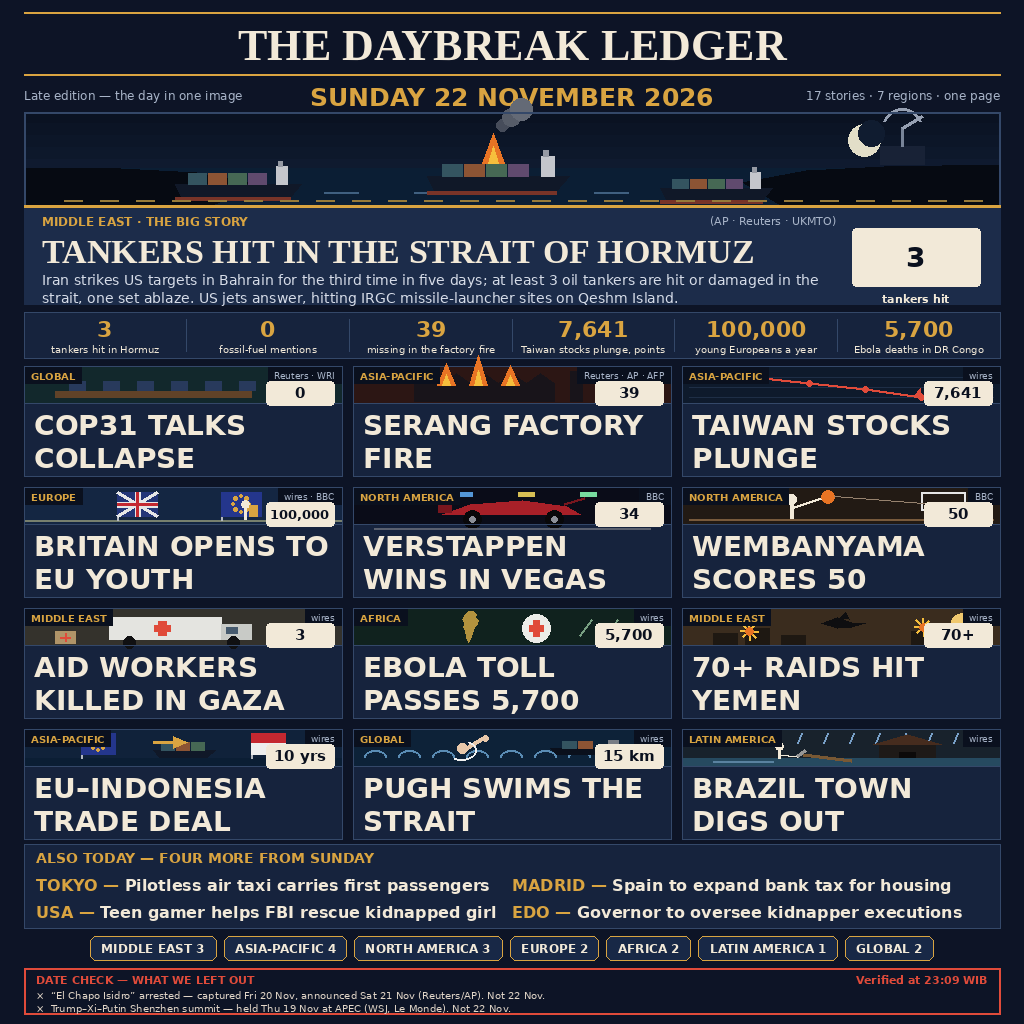
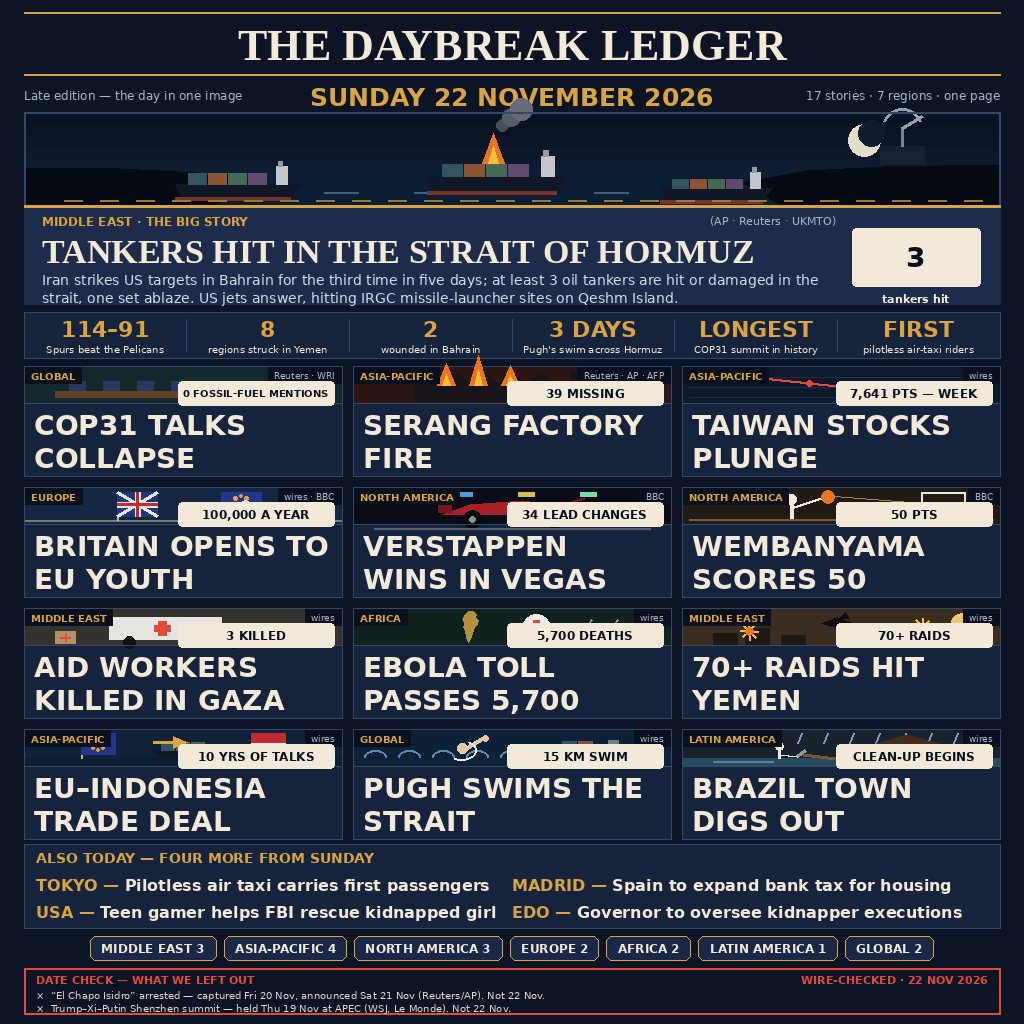
Daybreak v3 micro-fix: self-explanatory card chips, non-duplicative detail strip, wire-checked stamp

diff --git a/render_daybreak.py b/render_daybreak.py
@@ -2,7 +2,7 @@
 """Render THE DAYBREAK LEDGER v2 — @topan-kun's poster for news-image-20261122.
 
 Dark-broadsheet one-page summary of Sunday 22 November 2026, breadth build:
-a Hormuz hero across the top, a six-number strip, TWELVE illustrated story
+a Hormuz hero across the top, a six-detail strip, TWELVE illustrated story
 cards in a 3x4 grid (scene strip on top, large headline below), an ALSO
 TODAY strip with four more one-line stories, region chips, a DATE CHECK box.
 17 stories, 7 regions. Every fact comes from the verified ledger in
@@ -36,7 +36,7 @@ SANS_B   = "/usr/share/fonts/truetype/dejavu/DejaVuSans-Bold.ttf"
 SANS     = "/usr/share/fonts/truetype/dejavu/DejaVuSans.ttf"
 SANS_O   = "/usr/share/fonts/truetype/dejavu/DejaVuSans-Oblique.ttf"
 
-VERIFIED_STAMP = "Verified at 23:09 WIB"   # build-time constant, set at final build
+VERIFIED_STAMP = "WIRE-CHECKED · 22 NOV 2026"   # build-time constant, set at final build
 
 _fonts = {}
 def font(path, size):
@@ -169,12 +169,12 @@ d.text((HX1 - 84, SCENE_BOT + 86), "tankers hit", font=font(SANS_B, 11),
 SY0, SY1 = 312, 358
 d.rectangle([MARGIN, SY0, W - MARGIN, SY1], fill=PANEL, outline=EDGE)
 NUMBERS = [
-    ("3", "tankers hit in Hormuz"),
-    ("0", "fossil-fuel mentions"),
-    ("39", "missing in the factory fire"),
-    ("7,641", "Taiwan stocks plunge, points"),
-    ("100,000", "young Europeans a year"),
-    ("5,700", "Ebola deaths in DR Congo"),
+    ("114–91", "Spurs beat the Pelicans"),
+    ("8", "regions struck in Yemen"),
+    ("2", "wounded in Bahrain"),
+    ("3 DAYS", "Pugh's swim across Hormuz"),
+    ("LONGEST", "COP31 summit in history"),
+    ("FIRST", "pilotless air-taxi riders"),
 ]
 cell_w = CW / 6
 for i, (num, lab) in enumerate(NUMBERS):
@@ -376,18 +376,18 @@ def scene_pugh(x, y, w, h):
 # ---------------------------------------------------------------- cards
 # (region, headline, source, number, scene) — 12 cards, 3 cols x 4 rows
 CARDS = [
-    ("GLOBAL", "COP31 TALKS COLLAPSE", "Reuters · WRI", "0", scene_cop31),
-    ("ASIA-PACIFIC", "SERANG FACTORY FIRE", "Reuters · AP · AFP", "39", scene_fire),
-    ("ASIA-PACIFIC", "TAIWAN STOCKS PLUNGE", "wires", "7,641", scene_chart),
-    ("EUROPE", "BRITAIN OPENS TO EU YOUTH", "wires · BBC", "100,000", scene_flags),
-    ("NORTH AMERICA", "VERSTAPPEN WINS IN VEGAS", "BBC", "34", scene_f1),
-    ("NORTH AMERICA", "WEMBANYAMA SCORES 50", "BBC", "50", scene_hoop),
-    ("MIDDLE EAST", "AID WORKERS KILLED IN GAZA", "wires", "3", scene_aid),
-    ("AFRICA", "EBOLA TOLL PASSES 5,700", "wires", "5,700", scene_ebola),
-    ("MIDDLE EAST", "70+ RAIDS HIT YEMEN", "wires", "70+", scene_yemen),
-    ("ASIA-PACIFIC", "EU–INDONESIA TRADE DEAL", "wires", "10 yrs", scene_trade),
-    ("GLOBAL", "PUGH SWIMS THE STRAIT", "wires", "15 km", scene_pugh),
-    ("LATIN AMERICA", "BRAZIL TOWN DIGS OUT", "wires", None, scene_brazil),
+    ("GLOBAL", "COP31 TALKS COLLAPSE", "Reuters · WRI", "0 FOSSIL-FUEL MENTIONS", scene_cop31),
+    ("ASIA-PACIFIC", "SERANG FACTORY FIRE", "Reuters · AP · AFP", "39 MISSING", scene_fire),
+    ("ASIA-PACIFIC", "TAIWAN STOCKS PLUNGE", "wires", "7,641 PTS — WEEK", scene_chart),
+    ("EUROPE", "BRITAIN OPENS TO EU YOUTH", "wires · BBC", "100,000 A YEAR", scene_flags),
+    ("NORTH AMERICA", "VERSTAPPEN WINS IN VEGAS", "BBC", "34 LEAD CHANGES", scene_f1),
+    ("NORTH AMERICA", "WEMBANYAMA SCORES 50", "BBC", "50 PTS", scene_hoop),
+    ("MIDDLE EAST", "AID WORKERS KILLED IN GAZA", "wires", "3 KILLED", scene_aid),
+    ("AFRICA", "EBOLA TOLL PASSES 5,700", "wires", "5,700 DEATHS", scene_ebola),
+    ("MIDDLE EAST", "70+ RAIDS HIT YEMEN", "wires", "70+ RAIDS", scene_yemen),
+    ("ASIA-PACIFIC", "EU–INDONESIA TRADE DEAL", "wires", "10 YRS OF TALKS", scene_trade),
+    ("GLOBAL", "PUGH SWIMS THE STRAIT", "wires", "15 KM SWIM", scene_pugh),
+    ("LATIN AMERICA", "BRAZIL TOWN DIGS OUT", "wires", "CLEAN-UP BEGINS", scene_brazil),
 ]
 GRID_Y = 366
 CARD_W, CARD_H, GAP = 318, 110, 11
@@ -408,7 +408,7 @@ for idx, (region, head, src, num, scene) in enumerate(CARDS):
                  x + CARD_W - 1, y + 17], fill=(10, 16, 30))
     d.text((x + CARD_W - 7, y + 4), src, font=font(SANS_O, 9), fill=MUTED, anchor="ra")
     if num:
-        chip_number(d, x + CARD_W - 76, y + SCENE_H - 21, 68, 24, num, size=15)
+        chip_number(d, x + CARD_W - 164, y + SCENE_H - 21, 156, 24, num, size=12)
     # headline: largest size 28..20 whose wrap fits 2 lines in the zone below
     zone_w = CARD_W - 20
     hsize = 28
